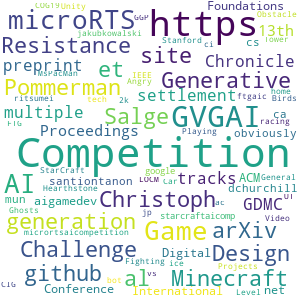
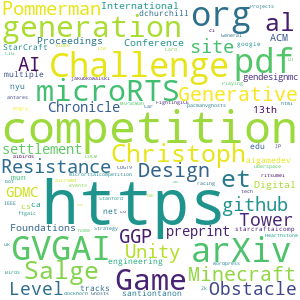
Adding links and tidying up data

diff --git a/_posts/2019-11-10-game-ai-competitions.md b/_posts/2019-11-10-game-ai-competitions.md
@@ -5,23 +5,24 @@ layout: post
 
 ### Game AI Competitions (ones you participated in, or used in your research or teaching)
 
-* GVGAI (multiple tracks)
-* Salge, Christoph, et al. ""Generative Design in Minecraft: Chronicle Challenge."" arXiv preprint arXiv:1905.05888 (2019).
-* Salge, Christoph, et al. ""Generative design in minecraft (GDMC): settlement generation competition."" Proceedings of the 13th International Conference on the Foundations of Digital Games. ACM, 2018.
-* GVGAI - [<a href='http://www.gvgai.net/'>url</a>]
+* Salge, Christoph, et al. ""Generative Design in Minecraft: Chronicle Challenge."" arXiv preprint arXiv:1905.05888 (2019). [<a href='https://arxiv.org/pdf/1905.05888.pdf'>url</a>]
+* Salge, Christoph, et al. ""Generative design in minecraft (GDMC): settlement generation competition."" Proceedings of the 13th International Conference on the Foundations of Digital Games. ACM, 2018. [<a href='http://gendesignmc.engineering.nyu.edu/'>url</a>] [<a href='https://arxiv.org/pdf/1803.09853.pdf'>url</a>]
+* GVGAI (multiple tracks) - [<a href='http://www.gvgai.net/'>url</a>]
 * The Resistance - [<a href='https://github.com/aigamedev/resistance'>url</a>]
 * Pommerman - [<a href='https://www.pommerman.com/'>url</a>]
 * MicroRTS - [<a href='https://github.com/santiontanon/microrts'>url</a>]
-* GVGAI (obviously)
-* [<A href='https://www.cs.mun.ca/~dchurchill/starcraftaicomp/'>url</a>] [<a href='https://sites.google.com/site/micrortsaicompetition/home'>url</a>] [<a href='https://jakubkowalski.tech/Projects/LOCM/COG19/'>url</a>] [<a href='http://www.ice.ci.ritsumei.ac.jp/~ftgaic/'>url</a>] MsPacMan vs Ghosts competition
+* StarCraft AI Competition [<a href='https://www.cs.mun.ca/~dchurchill/starcraftaicomp/'>url</a>]
+* MicroRTS Competition [<a href='https://sites.google.com/site/micrortsaicompetition/home'>url</a>]
+* Strategy Card Game AI Competition [<a href='https://jakubkowalski.tech/Projects/LOCM/COG19/'>url</a>]
+* FightingICE [<a href='http://www.ice.ci.ritsumei.ac.jp/~ftgaic/'>url</a>]
+* MsPacMan vs Ghosts competition [<a href='http://pacmanvghosts.co.uk/'>url</a>]
 * IEEE CIG competitions
 * General Video Game Playing
-* Stanford's GGP
-* StarCraft AI Competition
-* MicroRTS Competition
-* FTG-AI Competition
-* Unity Obstacle Tower challenge
-* Fighting Game AI Competition and Angry Birds Level Generation Competition
-* Hearthstone, UT 2k bot, Car racing,....
+* Stanford's GGP [<a href='http://www.ggp.org/'>url</a>]
+* Unity Obstacle Tower Challenge [<a href='https://www.aicrowd.com/challenges/unity-obstacle-tower-challenge'>url</a>]
+* Angry Birds Level Generation Competition [<a href='https://aibirds.org/other-events/level-generation-competition.html'>url</a>]
+* Hearthstone [<a href='https://dockhorn.antares.uberspace.de/wordpress/'>url</a>]
+* UT 2k bot
+* Car racing
 
 <hr><center><img src='assets/png/q10-wordcloud.png' /></center>

diff --git a/_posts/2019-11-13-software-libraries-and-tools.md b/_posts/2019-11-13-software-libraries-and-tools.md
@@ -14,16 +14,23 @@ layout: post
 * IntellijIDEA - [<a href='https://www.jetbrains.com/idea/'>url</a>]
 * PyCharm - [<a href='https://www.jetbrains.com/pycharm/'>url</a>]
 * GitKraken - [<a href='https://www.gitkraken.com/'>url</a>]
-* Pytorch, OpenAI gym, TensorboardX
-* OpenAI Gym, Torch, GVGAI
+* PyTorch [<a href='https://pytorch.org/'>url</a>]
+* TensorboardX [<a href='https://github.com/lanpa/tensorboardX'>url</a>]
+* GVGAI
 * [<A href='https://github.com/suragnair/alpha-zero-general'>url</a>]  <- simple reimplementation of alphazero
 * Java
-* OpenAI Gym, OpenAI Baselines, Tensorflow, Mujoco, Open Dynamics Engine, Unity ML-Agents
-* [<A href='http://autogamedesign.eu/?page_id=119'>url</a>]     [<a href='http://plt.institutedigitalgames.com/'>url</a>]
-* ML-agents(Unity)
+* OpenAI Baselines [<a href='https://github.com/openai/baselines'>url</a>]
+* Tensorflow [<a href='https://www.tensorflow.org/'>url</a>]
+* Mujoco [<a href='http://www.mujoco.org/'>url</a>]
+* Open Dynamics Engine [<a href='https://www.ode.org/'>url</a>]
+* Unity ML-Agents [<a href='https://github.com/Unity-Technologies/ml-agents'>url</a>]
+* [<A href='http://autogamedesign.eu/?page_id=119'>url</a>]
+* [<A href='http://plt.institutedigitalgames.com/'>url</a>]
 * [<A href='http://rapidmix.goldsmithsdigital.com/'>url</a>]
 * UKI (a universal motion gaming middleware: [<a href='https://sites.google.com/site/icelabuki/'>url</a>])
-* Unity resources in general, mixamo, Unity store,.....
+* Unity resources in general
+* Mixamo [<a href='https://www.mixamo.com/'>url</a>]
+* Unity store [<a href='https://assetstore.unity.com/'>url</a>]
 * Generally write my own
 
 <hr><center><img src='assets/png/q7-wordcloud.png' /></center>

diff --git a/_posts/2019-11-8-courses-and-course-materials.md b/_posts/2019-11-8-courses-and-course-materials.md
@@ -7,10 +7,14 @@ layout: post
 
 * AI-based Game Design: [<a href='https://github.com/GAIGResearch/AIGD2'>url</a>]
 * CIG @ Magdeburg University - [<a href='https://www.is.ovgu.de/Teaching/SS16/Computational+Intelligence+in+Games.html'>url</a>]
-* [<A href='http://rail.eecs.berkeley.edu/deeprlcourse/'>url</a>] - Berkeley Course on RL, [<a href='https://bair.berkeley.edu/blog/'>url</a>] - Berkeley Blog on RL
+* [<A href='http://rail.eecs.berkeley.edu/deeprlcourse/'>url</a>] - Berkeley Course on RL
+* [<A href='https://bair.berkeley.edu/blog/'>url</a>] - Berkeley Blog on RL
 * Deep RL bootcamp from Berkeley
 * Machine Learning for musicians and artists ([<a href='https://www.kadenze.com/courses/machine-learning-for-musicians-and-artists/info'>url</a>])
 * Coursera  Machine Learning (Andrew Ng) and Deep Reinforcement Learning (CS 285 at UC Berkeley)
-* Máster en creación de videojuegos de la Universidad de Málaga ([<a href='http://mastervideojuegos.uma.es'>url</a>]), GAMIA (www.gamia.es), Máster juvenil en desarrollo de videojuegos ([<a href='https://abonfireofsouls.com/masterjuvenil/'>url</a>]), PixelCampus,......
+* Máster en creación de videojuegos de la Universidad de Málaga ([<a href='http://mastervideojuegos.uma.es'>url</a>])
+* GAMIA ([<a href='http://www.gamia.es'>url</a>])
+* Máster juvenil en desarrollo de videojuegos ([<a href='https://abonfireofsouls.com/masterjuvenil/'>url</a>])
+* PixelCampus [<a href='https://pixel-campus.de/'>url</a>]
 
 <hr><center><img src='assets/png/q12-wordcloud.png' /></center>

diff --git a/_posts/2019-11-12-games-development.md b/_posts/2019-11-12-games-development.md
@@ -6,15 +6,20 @@ layout: post
 ### Games development - include programming languages and platforms - are the games for research or developed for people to play?  List games (and game platforms) you've published.
 
 * Unity C# for Desktop platforms - I use this to make tools, research projects, experimental games and regular games.
-* Wevva - made with Swift on MacOS for iOS (available on the app store). Tilt - made with Java under Windows, for a large touchscreen (not available currently)
+* Wevva - made with Swift on MacOS for iOS (available on the app store)
+* Tilt - made with Java under Windows, for a large touchscreen (not available currently)
 * Unity (C#)
 * Kotlin
-* (All for research)
-* Game research platforms: microRTS, SparCraft
+* Game research platforms: microRTS, StarCraft
 * Both. I have personally published 3 game titles in Iran.
-* Interactml.com (supervised learning for Unity3D natively integrated with a node editor)
+* [<A href='http://interactml.com/'>url</a>] - supervised learning for Unity3D natively integrated with a node editor
 * FightingICE (a fighting game AI platform in Java with OpenAI Gym API)
-* Wizards Tourney, Quest to Atzlan, Anima, Málaga Quizz (in develpment), Adventures in your city (in development),.....
-* Java, Eclipse, Android, iOS
+* Wizards Tourney
+* Quest to Atzlan
+* Anima
+* Málaga Quizz (in develpment)
+* Adventures in your city (in development)
+* Eclipse
+* Android
 
 <hr><center><img src='assets/png/q8-wordcloud.png' /></center>

diff --git a/_posts/2019-11-4-websites.md b/_posts/2019-11-4-websites.md
@@ -9,11 +9,15 @@ layout: post
 * Overleaf - [<a href='https://www.overleaf.com/'>url</a>]
 * Trello - [<a href='https://trello.com/en-GB'>url</a>]
 * Slack - [<a href='https://slack.com/'>url</a>]
-* [<A href='http://gameaibook.org/'>url</a>] [<a href='https://school.gameaibook.org/'>url</a>]
-* Interactml.com
-* Wekinator.org
-* [<A href='http://www.ice.ci.ritsumei.ac.jp/~ftgaic/'>url</a>], [<a href='https://sites.google.com/site/icelabuki/'>url</a>]
-* Itch.io, [<a href='http://www.gameai.com/'>url</a>], [<a href='https://www.gamedev.net/'>url</a>],.....
+* [<A href='http://gameaibook.org/'>url</a>]
+* [<A href='https://school.gameaibook.org/'>url</a>]
+* [<A href='http://interactml.com/'>url</a>]
+* [<A href='http://www.wekinator.org/'>url</a>]
+* [<A href='http://www.ice.ci.ritsumei.ac.jp/~ftgaic/'>url</a>]
+* [<A href='https://sites.google.com/site/icelabuki/'>url</a>]
+* Itch.io [<a href='https://itch.io/'>url</a>]
+* [<A href='http://www.gameai.com/'>url</a>]
+* [<A href='https://www.gamedev.net/'>url</a>]
 * BoardGameGeek ([<a href='https://boardgamegeek.com'>url</a>]) not very academic but a great resource!
 
 <hr><center><img src='assets/png/q16-wordcloud.png' /></center>

diff --git a/_posts/2019-11-9-evaluation-and-benchmarking.md b/_posts/2019-11-9-evaluation-and-benchmarking.md
@@ -6,12 +6,12 @@ layout: post
 ### Evaluation and Benchmarking (e.g. Atari Learning Environment, OpenAI Gym, GVGAI)
 
 * GVGAI - [<a href='http://www.gvgai.net/'>url</a>]
-* OpenAI Gym and games one can find on Github and that have been adapted to work with OpenAI Gym (e.g. Mario, Zelda, etc)
-* GVGAI (biased answer)
-* GVGAI, GDL
-* Toribash
-* FightingICE
-* ALE (Atari Learning environment)
+* Games one can find on Github and that have been adapted to work with OpenAI Gym (e.g. Mario, Zelda, etc)
+* GDL [<a href='http://games.stanford.edu/games/gdl.html'>url</a>]
+* Toribash [<a href='https://www.toribash.com/'>url</a>]
+* OpenAI Gym [<a href='https://gym.openai.com/'>url</a>]
+* FightingICE [<a href='http://www.ice.ci.ritsumei.ac.jp/~ftgaic/index-2.html'>url</a>]
+* ALE (Atari Learning Environment) [<a href='https://github.com/mgbellemare/Arcade-Learning-Environment'>url</a>]
 * I have created benchmarks for pathfinding that are broadly used: [<a href='http://movingai.com/benchmarks/'>url</a>]
 
 <hr><center><img src='assets/png/q11-wordcloud.png' /></center>

diff --git a/_posts/2019-11-11-influential-papers.md b/_posts/2019-11-11-influential-papers.md
@@ -26,7 +26,9 @@ layout: post
 * V. Mnih et al., ""Human-level control through deep reinforcement learning"", Nature, vol. 518, pp. 529-533, Feb. 2015.
 * [<A href='https://arxiv.org/abs/1804.02717'>url</a>]
 * A survey on Monte Carlo Tree Search
-* [<A href='http://yannakakis.net/wp-content/uploads/2012/03/gameAI.pdf'>url</a>]  [<a href='https://ieeexplore.ieee.org/abstract/document/5740836/'>url</a>] [<a href='https://ieeexplore.ieee.org/abstract/document/6855367/'>url</a>]
+* [<A href='http://yannakakis.net/wp-content/uploads/2012/03/gameAI.pdf'>url</a>]
+* [<A href='https://ieeexplore.ieee.org/abstract/document/5740836/'>url</a>]
+* [<A href='https://ieeexplore.ieee.org/abstract/document/6855367/'>url</a>]
 * A unified game theoretical approach to multiagent reinforcement learning
 * Open ended learning in symmetrical zero-sum games
 * Power to the people: The Role of Humans in Interactive Machine Learning ([<a href='https://wvvw.aaai.org/ojs/index.php/aimagazine/article/view/2513'>url</a>] )

diff --git a/_posts/2019-11-3-summer-schools.md b/_posts/2019-11-3-summer-schools.md
@@ -5,10 +5,10 @@ layout: post
 
 ### Summer schools (ones you have attended or would like to attend or recommend)
 
-* Yannakakis and Togelius is the only one I know of in Game AI.  I've sent students on it; they found it valuable.  Machine learning summer schools would also be relevant.
-* Game AI Summer School, MLSS
+* Yannakakis and Togelius is the only one I know of in Game AI.  I've sent students on it; they found it valuable.
+* Machine learning summer schools would also be relevant.
+* MLSS [<a href='http://mlss.cc/'>url</a>]
 * Deep Learning and Reinforcement Learning Summer School - [<a href='https://dlrlsummerschool.ca'>url</a>]
-* [<A href='https://school.gameaibook.org/'>url</a>]
-* GameAI summerschool (Yannakakis and Togelius)
+* Game AI Summer School (Yannakakis and Togelius) [<a href='https://school.gameaibook.org/'>url</a>]
 
 <hr><center><img src='assets/png/q17-wordcloud.png' /></center>

diff --git a/_posts/2019-11-5-textbooks.md b/_posts/2019-11-5-textbooks.md
@@ -11,7 +11,8 @@ layout: post
 * Shaker et al, PCG Book - [<a href='http://pcgbook.com/'>url</a>]
 * Philip Hingston, Believable bots - [<a href='https://www.springer.com/gp/book/9783642323225'>url</a>]
 * I'm not going to answer Yannakakis and Togelius (2018). That would be cheating.
-* I like the following textbooks: Winning Ways; Lessons in Play. I also like Demaine and Hearn's ""Games, Puzzles, and Computation"" which is not quite a textbook, but a relevant book nonetheless.
+* I like the following textbooks: Winning Ways; Lessons in Play
+* I also like Demaine and Hearn's ""Games, Puzzles, and Computation"" which is not quite a textbook, but a relevant book nonetheless.
 * Reinforcement Learning: an Introduction
 * Artificial Intelligence: a modern approach
 * Artificial Intelligence and Games ([<a href='http://gameaibook.org/'>url</a>])

diff --git a/_posts/2019-11-6-games-and-interactive-demos.md b/_posts/2019-11-6-games-and-interactive-demos.md
@@ -9,8 +9,7 @@ layout: post
 * No Man's Sky
 * Java-pommerman - [<a href='https://github.com/GAIGResearch/java-pommerman'>url</a>]
 * [<A href='https://github.com/Interactml/iml-unity'>url</a>]
-* I have online demos of many search algorithms here:
-* [<A href='https://movingai.com/SAS/'>url</a>]
+* I have online demos of many search algorithms here: [<a href='https://movingai.com/SAS/'>url</a>]
 * Wizards of tourney ([<a href='https://abonfireofsouls.com/wizards-tourney/'>url</a>]) is the most recent but I have worked in other games.
 * Partial list of games: [<a href='http://cambolbro.com/games/index.html'>url</a>]
 

diff --git a/_posts/2019-11-7-videos.md b/_posts/2019-11-7-videos.md
@@ -11,6 +11,6 @@ layout: post
 * [<A href='http://rail.eecs.berkeley.edu/deeprlcourse/'>url</a>] - Berkeley Course on RL
 * [<A href='https://www.youtube.com/channel/UCNIkB2IeJ-6AmZv7bQ1oBYg'>url</a>]
 * How to Build Interactive Systems Using Machine Learning ([<a href='https://www.youtube.com/watch?v=SdT0EwzZTsI'>url</a>])
-* ACM TechTalks@YouTube
+* ACM TechTalks@YouTube [<a href='https://www.youtube.com/watch?v=WnIWRks35Fk&list=PLn0nrSd4xjjZa4KDqFBCMOnk52CItWqyU'>url</a>]
 
 <hr><center><img src='assets/png/q13-wordcloud.png' /></center>
